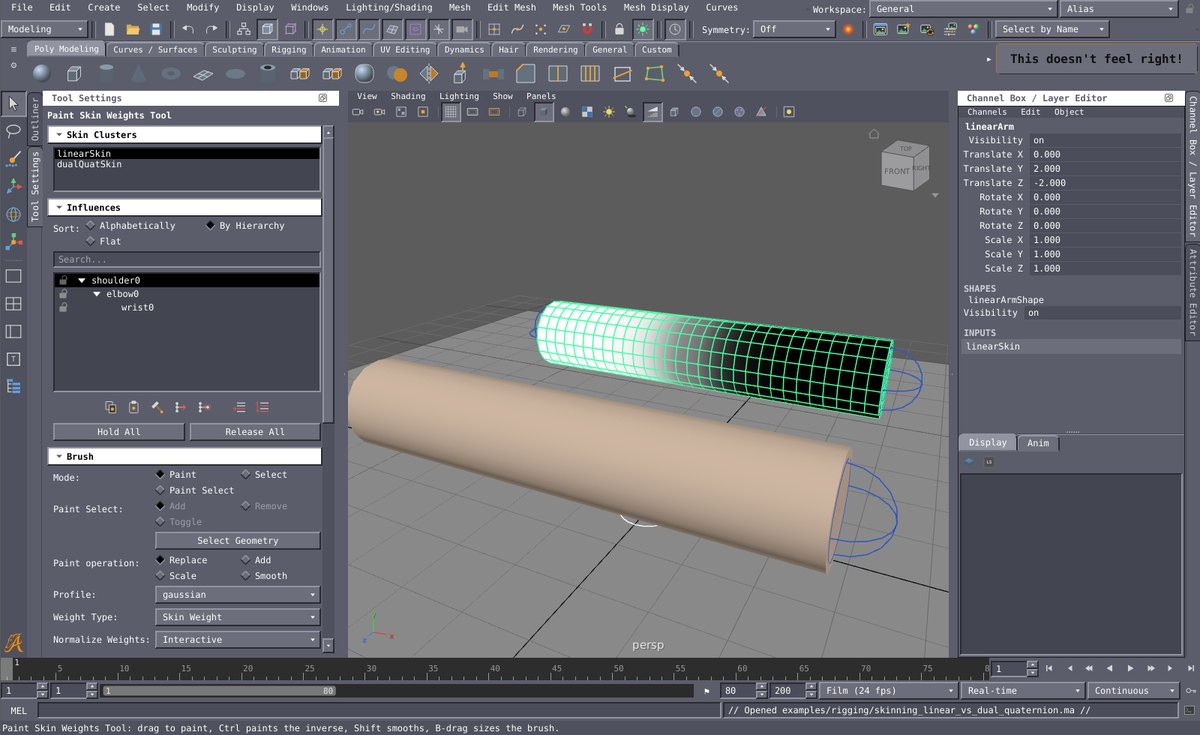
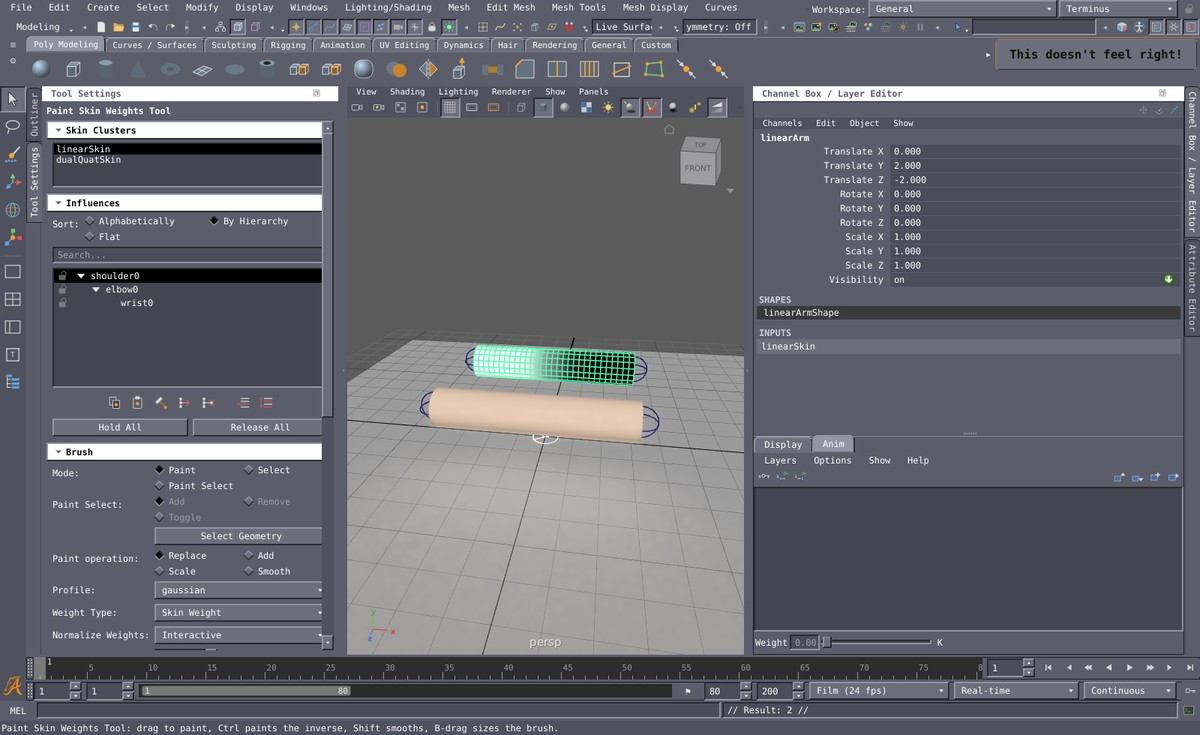
Themes: three renamed, pictures retaken

diff --git a/site/index.html b/site/index.html
@@ -392,16 +392,16 @@ git push --mirror &lt;your repository's URL&gt;</code></pre>
     <figure><a href="img/theme-dracula.jpg"><img src="img/theme-dracula.jpg" alt="Aztek in the Keating theme" loading="lazy"></a><figcaption><b>Keating</b> The Dracula scheme: pink highlights, purple section bars, rounded type, very round corners.</figcaption></figure>
     <figure><a href="img/theme-classic98.jpg"><img src="img/theme-classic98.jpg" alt="Aztek in the DonnieAlex theme" loading="lazy"></a><figcaption><b>DonnieAlex</b> After Blender, in DonnieAlex's high-contrast take: mid-dark grey regions, its blue for panel headers and selection, grey rounded widgets, serif type.</figcaption></figure>
     <figure><a href="img/theme-nord.jpg"><img src="img/theme-nord.jpg" alt="Aztek in the Novacek theme" loading="lazy"></a><figcaption><b>Novacek</b> The Nord scheme: frost blues, geometric type, borderless, round-topped tabs.</figcaption></figure>
-    <figure><a href="img/theme-alias.jpg"><img src="img/theme-alias.jpg" alt="Aztek in the Alias theme" loading="lazy"></a><figcaption><b>Alias</b> The late-90s animation package's dark scheme: slate panels, white section bars, fixed-width type.</figcaption></figure>
+    <figure><a href="img/theme-terminus.jpg"><img src="img/theme-terminus.jpg" alt="Aztek in the Terminus theme" loading="lazy"></a><figcaption><b>Terminus</b> A late-90s dark scheme: slate panels, white section bars, fixed-width type.</figcaption></figure>
     <figure><a href="img/theme-pewter.jpg"><img src="img/theme-pewter.jpg" alt="Aztek in the Tureski theme" loading="lazy"></a><figcaption><b>Tureski</b> Warm pewter grey and orange, wide Verdana-style type, double bevels, orange section bars.</figcaption></figure>
   </div>
   <h3>Light</h3>
   <div class="theme-grid">
     <figure><a href="img/theme-studio96.jpg"><img src="img/theme-studio96.jpg" alt="Aztek in the Sebdvvv theme" loading="lazy"></a><figcaption><b>Sebdvvv</b> The mid-90s workstation animation packages: pink fields, bold italic menus, bevels.</figcaption></figure>
-    <figure><a href="img/theme-martino.jpg"><img src="img/theme-martino.jpg" alt="Aztek in the Martino theme" loading="lazy"></a><figcaption><b>Martino</b> After Softimage XSI: warm grey, soft rounded buttons, blue-grey section bars, dark rounded fields, white selection.</figcaption></figure>
+    <figure><a href="img/theme-martino.jpg"><img src="img/theme-martino.jpg" alt="Aztek in the Martino theme" loading="lazy"></a><figcaption><b>Martino</b> Warm grey, soft rounded buttons, blue-grey section bars, dark rounded fields, white selection.</figcaption></figure>
     <figure><a href="img/theme-desktop98.jpg"><img src="img/theme-desktop98.jpg" alt="Aztek in the Krieger theme" loading="lazy"></a><figcaption><b>Krieger</b> Silver and navy, two-tone bevels, 1998.</figcaption></figure>
-    <figure><a href="img/theme-workstation.jpg"><img src="img/theme-workstation.jpg" alt="Aztek in the Wavefront theme" loading="lazy"></a><figcaption><b>Wavefront</b> The light grey workstation desktop the reference first ran on.</figcaption></figure>
-    <figure><a href="img/theme-poweranimator.jpg"><img src="img/theme-poweranimator.jpg" alt="Aztek in the Hourihan theme" loading="lazy"></a><figcaption><b>Hourihan</b> Light grey with mid grey fields and darker section bars, round-topped tabs.</figcaption></figure>
+    <figure><a href="img/theme-workstation.jpg"><img src="img/theme-workstation.jpg" alt="Aztek in the Workstation theme" loading="lazy"></a><figcaption><b>Workstation</b> The light grey workstation desktop of the early 1990s.</figcaption></figure>
+    <figure><a href="img/theme-hourihan.jpg"><img src="img/theme-hourihan.jpg" alt="Aztek in the Hourihan theme" loading="lazy"></a><figcaption><b>Hourihan</b> Light grey with mid grey fields and darker section bars, round-topped tabs.</figcaption></figure>
     <figure><a href="img/theme-sky.jpg"><img src="img/theme-sky.jpg" alt="Aztek in the Hourcade theme" loading="lazy"></a><figcaption><b>Hourcade</b> Pale sky blue and navy, humanist type, navy section bars, round pills.</figcaption></figure>
     <figure><a href="img/theme-solarized-light.jpg"><img src="img/theme-solarized-light.jpg" alt="Aztek in the Buxton theme" loading="lazy"></a><figcaption><b>Buxton</b> Solarized light with its cyan and magenta: serif type, round-topped tabs.</figcaption></figure>
     <figure><a href="img/theme-paper.jpg"><img src="img/theme-paper.jpg" alt="Aztek in the Hall theme" loading="lazy"></a><figcaption><b>Hall</b> Cream paper and red ink, typewriter type, bold menus, square corners, black section bars.</figcaption></figure>

diff --git a/app/src/themes.cpp b/app/src/themes.cpp
@@ -222,9 +222,8 @@ QList<Theme> builtins() {
         t.padding = 4;
         l << t;
     }
-    // Martino: Softimage XSI, matched to its screens: warm grey panels and lists, soft raised buttons a shade lighter
-    // with rounded corners (lit white when on), blue-grey section and panel title bars with black bold type, dark
-    // rounded entry fields with light type, a white bar with black type for what is picked, Tahoma.
+    // Martino: warm grey panels and lists, soft raised buttons a shade lighter with rounded corners (lit white when on),
+    // blue-grey section and panel title bars with black bold type, dark rounded entry fields with light type, a white bar with black type for what is picked, Tahoma.
     {
         Theme t = hand("martino", "Martino",
                        {{"window", "#aca8a7"}, {"chrome", "#a7a3a2"}, {"base", "#aca8a7"}, {"alt", "#a6a2a1"}, {"menu", "#cccbc9"}, {"button", "#b6b3b1"}, {"hover", "#c6c3c1"},
@@ -367,10 +366,9 @@ QList<Theme> builtins() {
         t.padding = 2;
         l << t;
     }
-    // Wavefront: the workstation desktop the first release of the reference ran on: light grey, deep bevels, upright
-    // Helvetica.
+    // Workstation: the light grey workstation desktop of the early 1990s: deep bevels, upright Helvetica.
     {
-        Theme t = hand("workstation", "Wavefront",
+        Theme t = hand("workstation", "Workstation",
                        {{"window", "#c2c2c2"}, {"chrome", "#b2b2b2"}, {"base", "#dedede"}, {"alt", "#d4d4d4"}, {"menu", "#cacaca"}, {"button", "#c6c6c6"}, {"hover", "#d2d2d2"},
                         {"hi", "#52709f"}, {"text", "#000000"}, {"bright", "#000000"}, {"dim", "#383838"}, {"disabled", "#7c7c7c"}, {"border", "#3c3c3c"}, {"handle", "#c6c6c6"},
                         {"light", "#f4f4f4"}, {"shadow", "#6c6c6c"}, {"field", "#e4e4e4"}, {"fieldtext", "#000000"}});
@@ -387,7 +385,7 @@ QList<Theme> builtins() {
     }
     // Light grey with mid grey fields and darker section bars, the reference's look on the workstations of the 2000s.
     {
-        Theme t = hand("poweranimator", "Hourihan",
+        Theme t = hand("hourihan", "Hourihan",
                        {{"window", "#c6c6c6"}, {"chrome", "#b6b6b6"}, {"base", "#d8d8d8"}, {"alt", "#cfcfcf"}, {"menu", "#cccccc"}, {"button", "#c6c6c6"}, {"hover", "#d4d4d4"},
                         {"hi", "#56739f"}, {"text", "#000000"}, {"bright", "#000000"}, {"dim", "#303030"}, {"disabled", "#7a7a7a"}, {"border", "#3c3c3c"}, {"handle", "#c6c6c6"},
                         {"light", "#f2f2f2"}, {"shadow", "#727272"}, {"field", "#a9a9a9"}, {"fieldtext", "#000000"}, {"section", "#a2a2a2"}, {"sectiontext", "#000000"}});
@@ -404,7 +402,7 @@ QList<Theme> builtins() {
     // The animation package of the late 1990s in its own dark scheme: slate panels, white section bars with black
     // text, black for what is on, a fixed-width face.
     {
-        Theme t = hand("alias", "Alias",
+        Theme t = hand("terminus", "Terminus",
                        {{"window", "#5b5d6b"}, {"chrome", "#4f515e"}, {"base", "#434551"}, {"alt", "#555764"}, {"menu", "#666875"}, {"button", "#6c6e7b"}, {"hover", "#7b7d8b"},
                         {"hi", "#000000"}, {"hitext", "#ffffff"}, {"text", "#ffffff"}, {"bright", "#ffffff"}, {"dim", "#cfd0d8"}, {"disabled", "#9a9ca8"}, {"border", "#1c1d24"},
                         {"handle", "#b3b0a8"}, {"light", "#9294a2"}, {"shadow", "#2a2b33"}, {"field", "#4b4d5a"}, {"fieldtext", "#ffffff"}, {"section", "#ffffff"},
@@ -567,7 +565,7 @@ QList<Theme> builtins() {
         {"violet", {"chunky", "thick", "inverse"}},      {"martino", {"soft", "line", "gradient"}},      {"dracula", {"pill", "rounded", "tab"}},
         {"solarized-dark", {"auto", "bevel", "accent"}}, {"graphite", {"soft", "shadow", "gradient"}},   {"nord", {"underline", "none", "underline"}},
         {"slate", {"glossy", "shadow", "inverse"}},      {"pewter", {"auto", "bevel", "gradient"}},      {"workstation", {"auto", "bevel", "auto"}},
-        {"poweranimator", {"auto", "groove", "gradient"}}, {"alias", {"auto", "line", "inverse"}},       {"desktop98", {"auto", "bevel", "auto"}},
+        {"hourihan", {"auto", "groove", "gradient"}},     {"terminus", {"auto", "line", "inverse"}},          {"desktop98", {"auto", "bevel", "auto"}},
         {"sky", {"outline", "rounded", "accent"}},       {"solarized-light", {"inset", "line", "tab"}},  {"paper", {"chunky", "shadow", "underline"}},
         {"lilac", {"pill", "rounded", "gradient"}},      {"shaq", {"auto", "line", "auto"}},             {"classic98", {"auto", "rounded", "auto"}},
         {"ash", {"pill", "rounded", "tab"}},             {"macos", {"auto", "rounded", "auto"}}};
@@ -1384,7 +1382,12 @@ Theme theme(const QString& id) {
     return l.front();
 }
 
-QString current_theme() { return QSettings().value("prefs/theme", "classic").toString(); }
+QString current_theme() {
+    // Ids saved by earlier builds.
+    static const QHash<QString, QString> renamed{{"alias", "terminus"}, {"poweranimator", "hourihan"}};
+    const QString id = QSettings().value("prefs/theme", "classic").toString();
+    return renamed.value(id, id);
+}
 
 QString themes_folder() { return prefs_root() + "/themes"; }
 

diff --git a/README.md b/README.md
@@ -575,7 +575,7 @@ The reference has one look, and Classic is it, the default. There are 26 built-i
 changes the interface's colours, fonts and the shapes of its buttons, fields, tabs, arrows and scroll bars, live, and
 Aztek keeps the choice. They are listed from darkest to lightest, and the icons turn dark on the light ones. Keating,
 Novacek, Springer and Buxton are the Dracula, Nord and Solarized colour schemes as their authors publish them; Shaq
-follows Unreal Engine 5's editor, DonnieAlex Blender's, Martino Softimage XSI and Macintosh macOS. The timeline and the drawn editors (Graph,
+follows Unreal Engine 5's editor, DonnieAlex Blender's and Macintosh macOS. The timeline and the drawn editors (Graph,
 Node and UV Editor, marking menus) keep their own colours.
 
 **Random!**, at the bottom of the box, makes a theme with every option at random, fonts included, and applies it: pick
@@ -587,7 +587,7 @@ or bold menus and tabs, the fill (classic, flat or gradient), bevels (none, sing
 radius, border width, padding, the tab, arrow and scroll bar styles, the buttons (soft, glossy, outline, inset, chunky,
 underlined or pills), the edges round panels (line, groove, raised, thick, rounded or a drop shadow) and the panel title
 bars (gradient, underlined, a highlight stripe, inverse or a folder tab). Every built-in theme has its own mix of these;
-Martino follows Softimage XSI: warm grey panels, soft rounded buttons, blue-grey section bars, dark rounded entry
+Martino has warm grey panels, soft rounded buttons, blue-grey section bars, dark rounded entry
 fields and a white bar for what is picked. Built-in themes stay as they are and saving makes a
 copy of your own, kept as JSON in the Aztek settings folder's `themes` directory, which Import and Export pass around.
 On Linux that folder is `~/.config/aztek` by default, and Aztek copies existing settings there without replacing files already present.
@@ -606,17 +606,17 @@ On Linux that folder is `~/.config/aztek` by default, and Aztek copies existing 
 | **Gibson**: forest green and lime, humanist type, soft gradients | **Shaq**: after Unreal Engine 5's editor: near-black and charcoal panels, black fields, its bright blue, Roboto | **Springer**: Solarized dark with its yellow and orange: condensed type, single bevels, square edges |
 | ![Ozymok](docs/theme-slate.jpg) | ![Keating](docs/theme-dracula.jpg) | ![DonnieAlex](docs/theme-classic98.jpg) |
 | **Ozymok**: plum and hot pink, Gill-style type with italic menus, gradient buttons with a single bevel | **Keating**: the Dracula scheme: pink highlights, purple section bars, rounded type, very round corners | **DonnieAlex**: after Blender, in DonnieAlex's high-contrast take: mid-dark grey regions, its blue for panel headers and selection, grey rounded widgets, serif type |
-| ![Novacek](docs/theme-nord.jpg) | ![Alias](docs/theme-alias.jpg) | ![Tureski](docs/theme-pewter.jpg) |
-| **Novacek**: the Nord scheme: frost blues, geometric type, borderless, round-topped tabs | **Alias**: the late-90s animation package's dark scheme: slate panels, white section bars, fixed-width type | **Tureski**: warm pewter grey and orange, wide Verdana-style type, double bevels, orange section bars |
+| ![Novacek](docs/theme-nord.jpg) | ![Terminus](docs/theme-terminus.jpg) | ![Tureski](docs/theme-pewter.jpg) |
+| **Novacek**: the Nord scheme: frost blues, geometric type, borderless, round-topped tabs | **Terminus**: a late-90s dark scheme: slate panels, white section bars, fixed-width type | **Tureski**: warm pewter grey and orange, wide Verdana-style type, double bevels, orange section bars |
 
 ### Light
 
 | | | |
 |---|---|---|
 | ![Sebdvvv](docs/theme-studio96.jpg) | ![Martino](docs/theme-martino.jpg) | ![Krieger](docs/theme-desktop98.jpg) |
-| **Sebdvvv**: the mid-90s workstation animation packages: pink fields, bold italic menus, bevels | **Martino**: after Softimage XSI: warm grey, soft rounded buttons, blue-grey section bars, dark rounded fields, white selection | **Krieger**: silver and navy, two-tone bevels, 1998 |
-| ![Wavefront](docs/theme-workstation.jpg) | ![Hourihan](docs/theme-poweranimator.jpg) | ![Hourcade](docs/theme-sky.jpg) |
-| **Wavefront**: the light grey workstation desktop the reference first ran on | **Hourihan**: light grey with mid grey fields and darker section bars, round-topped tabs | **Hourcade**: pale sky blue and navy, humanist type, navy section bars, round pills |
+| **Sebdvvv**: the mid-90s workstation animation packages: pink fields, bold italic menus, bevels | **Martino**: warm grey, soft rounded buttons, blue-grey section bars, dark rounded fields, white selection | **Krieger**: silver and navy, two-tone bevels, 1998 |
+| ![Workstation](docs/theme-workstation.jpg) | ![Hourihan](docs/theme-hourihan.jpg) | ![Hourcade](docs/theme-sky.jpg) |
+| **Workstation**: the light grey workstation desktop of the early 1990s | **Hourihan**: light grey with mid grey fields and darker section bars, round-topped tabs | **Hourcade**: pale sky blue and navy, humanist type, navy section bars, round pills |
 | ![Buxton](docs/theme-solarized-light.jpg) | ![Hall](docs/theme-paper.jpg) | ![AshT](docs/theme-ash.jpg) |
 | **Buxton**: Solarized light with its cyan and magenta: serif type, round-topped tabs | **Hall**: cream paper and red ink, typewriter type, bold menus, square corners, black section bars | **AshT**: after Hello Kitty: candy pink and white, red highlights and section bars, black outlines, rounded type |
 | ![Macintosh](docs/theme-macos.jpg) | ![Stam](docs/theme-lilac.jpg) |  |
